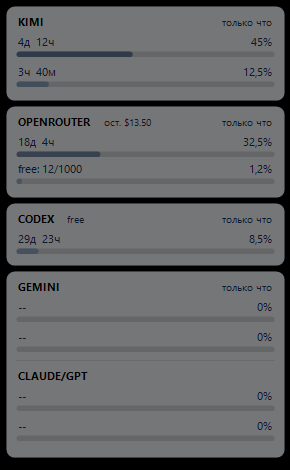
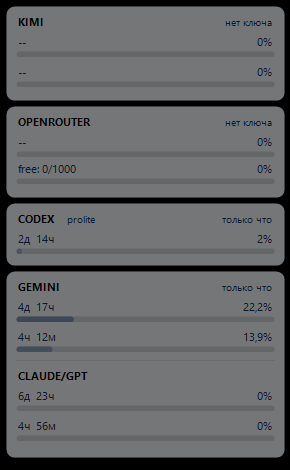
chore: версия 2.1.0 (провайдер Codex)

diff --git a/go/cmd/llm-limits/main.go b/go/cmd/llm-limits/main.go
@@ -47,7 +47,7 @@ func run(args []string) int {
 		return 0
 	}
 	if opt.version {
-		fmt.Println("llm-limits 2.0.1")
+		fmt.Println("llm-limits 2.1.0")
 		return 0
 	}
 
@@ -579,7 +579,7 @@ func isTTY() bool {
 }
 
 func printHelp() {
-	fmt.Println("llm-limits 2.0.1 - LLM quota status in the terminal (Kimi / OpenRouter / Gemini+Claude-GPT / Codex)")
+	fmt.Println("llm-limits 2.1.0 - LLM quota status in the terminal (Kimi / OpenRouter / Gemini+Claude-GPT / Codex)")
 	fmt.Println()
 	fmt.Println("Usage: llm-limits [options]")
 	fmt.Println()
@@ -594,7 +594,7 @@ func printHelp() {
 	fmt.Println("  --agy-bin <path>        Explicit path to agy binary")
 	fmt.Println("  --agy-timeout <sec>     agy spawn timeout, 1..120 (default: Windows 8s, Linux/macOS 20s; env LLM_LIMITS_AGY_TIMEOUT)")
 	fmt.Println("  --no-color              Disable ANSI colors (also honors NO_COLOR)")
-	fmt.Println("  --version, -v           Show version (2.0.1)")
+	fmt.Println("  --version, -v           Show version (2.1.0)")
 	fmt.Println("  --help                  Show this help")
 	fmt.Println()
 	fmt.Println("Exit codes: 0 = all providers online, 2 = some stale, 1 = all failed / config error")

diff --git a/go/cmd/overlay32/tray.go b/go/cmd/overlay32/tray.go
@@ -24,7 +24,7 @@ func runTray() {
 func onTrayReady() {
 	systray.SetIcon(trayIconBytes)
 	systray.SetTitle("LLM Limits Overlay")
-	systray.SetTooltip("LLM Limits Overlay v2.0.1 (Win32 Native)")
+	systray.SetTooltip("LLM Limits Overlay v2.1.0 (Win32 Native)")
 
 	mRefresh = systray.AddMenuItem("Обновить квоты", "Принудительно обновить квоты")
 	mVisibility = systray.AddMenuItem("Скрыть", "Показать/Скрыть оверлей")

diff --git a/go/cmd/overlay32/main.go b/go/cmd/overlay32/main.go
@@ -371,7 +371,7 @@ func main() {
 	defer windows.CloseHandle(windows.Handle(hMutex))
 
 	initAppDir()
-	fetchers.LogLine(appDir, fmt.Sprintf("=== LLM Limits Overlay v2.0.1 Starting (PID=%d) ===", os.Getpid()))
+	fetchers.LogLine(appDir, fmt.Sprintf("=== LLM Limits Overlay v2.1.0 Starting (PID=%d) ===", os.Getpid()))
 
 	// GDI+ Startup
 	var gdiplusToken uintptr

diff --git a/README.ru.md b/README.ru.md
@@ -296,6 +296,7 @@ KIMI_API_KEY=sk-xxxxxxxxxxxxxxxxxxxxxxxxxxxx
 
 > [!NOTE]
 > **История версий**:
+> - **v2.1.0**: Новый провайдер Codex (ChatGPT Codex CLI через локальный JSON-RPC app-server без обновления OAuth-токенов), скрытие консольных окон дочерних процессов (`CREATE_NO_WINDOW`).
 > - **v2.0.1**: Позиционирование относительно рабочей области Windows (`SystemParametersInfoW SPI_GETWORKAREA`) — размещение строго над таскбаром с отступом и клампингом границ.
 > - **v2.0.0**: Полный переход на чистый Go (нативный Win32 HUD + CLI). Без внешних зависимостей.
 > - **v1.1.0–v1.4.1**: C# / .NET Framework 4.8 / WPF автономное приложение (`LlmLimitsOverlay.exe`). Исходники доступны в тегах `≤ v1.4.1`.
@@ -310,7 +311,7 @@ KIMI_API_KEY=sk-xxxxxxxxxxxxxxxxxxxxxxxxxxxx
 ### Способы запуска
 
 #### 1. Запуск готового бинарника из Releases
-1. Скачайте архив `LlmLimitsOverlay-v2.0.1-win64.zip` со страницы [Releases](https://github.com/Kzamirtay/llm-limits-overlay/releases).
+1. Скачайте архив `LlmLimitsOverlay-v2.1.0-win64.zip` со страницы [Releases](https://github.com/Kzamirtay/llm-limits-overlay/releases).
 2. Распакуйте в любую удобную папку.
 3. Создайте `.env` с API-ключами (скопируйте из `.env.example`).
 4. Убедитесь, что `agy.exe` установлен и вы авторизованы (`agy auth login`).
@@ -336,7 +337,7 @@ CGO_ENABLED=0 GOOS=linux GOARCH=amd64 go build -ldflags="-s -w" -o dist/llm-limi
 ```
 
 #### 3. Windows-установщик (v2.0.0+)
-Доступен per-user установщик: `LlmLimitsOverlay-Setup-2.0.1.exe` (Inno Setup 6).
+Доступен per-user установщик: `LlmLimitsOverlay-Setup-2.1.0.exe` (Inno Setup 6).
 
 **Возможности:**
 - Устанавливает `llm-limits-overlay.exe` (GUI) и `llm-limits.exe` (CLI) в `%LOCALAPPDATA%\LlmLimitsOverlay` — без запроса прав администратора (UAC).
@@ -349,7 +350,7 @@ CGO_ENABLED=0 GOOS=linux GOARCH=amd64 go build -ldflags="-s -w" -o dist/llm-limi
 
 **Тихая установка (для автоматизации):**
 ```cmd
-LlmLimitsOverlay-Setup-2.0.1.exe /VERYSILENT /SUPPRESSMSGBOXES /NORESTART /LOG=%TEMP%\llmo-install.log
+LlmLimitsOverlay-Setup-2.1.0.exe /VERYSILENT /SUPPRESSMSGBOXES /NORESTART /LOG=%TEMP%\llmo-install.log
 ```
 > [!NOTE]
 > **Предупреждение SmartScreen**: установщик не подписан цифровой подписью (нет EV-сертификата). Windows SmartScreen покажет «Защита Windows» — нажмите «Подробнее» → «Всё равно запустить». Это нормально для open-source проектов без платного сертификата.

diff --git a/README.md b/README.md
@@ -298,6 +298,7 @@ The primary executable for the overlay is **`llm-limits-overlay.exe`**.
 
 > [!NOTE]
 > **Version History**:
+> - **v2.1.0**: New Codex provider (ChatGPT Codex CLI via local JSON-RPC app-server without touching OAuth tokens), hidden child process console windows (`CREATE_NO_WINDOW`).
 > - **v2.0.1**: Positioning relative to Windows Work Area (`SystemParametersInfoW SPI_GETWORKAREA`) — floats cleanly above the taskbar with automatic margin and bounds clamping.
 > - **v2.0.0**: Complete migration to pure Go (Win32 Native HUD + CLI). Zero external runtime dependencies.
 > - **v1.1.0–v1.4.1**: Legacy C# / .NET Framework 4.8 / WPF standalone application (`LlmLimitsOverlay.exe`). Sources remain accessible in git tags `≤ v1.4.1`.
@@ -312,7 +313,7 @@ The following files must be located in the same directory as `llm-limits-overlay
 ### Launch Options
 
 #### 1. Running the Prebuilt Binary from Releases
-1. Download the latest `LlmLimitsOverlay-v2.0.1-win64.zip` from [Releases](https://github.com/Kzamirtay/llm-limits-overlay/releases).
+1. Download the latest `LlmLimitsOverlay-v2.1.0-win64.zip` from [Releases](https://github.com/Kzamirtay/llm-limits-overlay/releases).
 2. Extract the archive into any preferred directory.
 3. Create your `.env` file with your API keys (copy from `.env.example`).
 4. Ensure `agy.exe` is installed and you are signed in (`agy auth login`).
@@ -338,7 +339,7 @@ CGO_ENABLED=0 GOOS=linux GOARCH=amd64 go build -ldflags="-s -w" -o dist/llm-limi
 ```
 
 #### 3. Windows Installer (v2.0.0+)
-A per-user Windows installer is available: `LlmLimitsOverlay-Setup-2.0.1.exe` (Inno Setup 6).
+A per-user Windows installer is available: `LlmLimitsOverlay-Setup-2.1.0.exe` (Inno Setup 6).
 
 **Features:**
 - Installs `llm-limits-overlay.exe` (GUI) and `llm-limits.exe` (CLI) to `%LOCALAPPDATA%\LlmLimitsOverlay` — no UAC elevation required.
@@ -351,7 +352,7 @@ A per-user Windows installer is available: `LlmLimitsOverlay-Setup-2.0.1.exe` (I
 
 **Silent install (for automation):**
 ```cmd
-LlmLimitsOverlay-Setup-2.0.1.exe /VERYSILENT /SUPPRESSMSGBOXES /NORESTART /LOG=%TEMP%\llmo-install.log
+LlmLimitsOverlay-Setup-2.1.0.exe /VERYSILENT /SUPPRESSMSGBOXES /NORESTART /LOG=%TEMP%\llmo-install.log
 ```
 > [!NOTE]
 > **SmartScreen warning**: The installer is not code-signed (no EV certificate). Windows SmartScreen will show "Windows protected your PC" — click "More info" → "Run anyway". This is expected for open-source projects without a paid certificate.
@@ -365,7 +366,7 @@ LlmLimitsOverlay-Setup-2.0.1.exe /VERYSILENT /SUPPRESSMSGBOXES /NORESTART /LOG=%
 A companion console utility ships next to the GUI (same Go fetch engine, same timeouts, same cache). It prints quota status to the terminal for scripts and quick checks.
 
 ```cmd
-llm-limits --version         # prints "llm-limits 2.0.1"
+llm-limits --version         # prints "llm-limits 2.1.0"
 llm-limits --json            # works from any folder — installer adds it to your user PATH
 llm-limits --provider kimi
 llm-limits --watch 30        # refresh loop; Ctrl+C to exit
